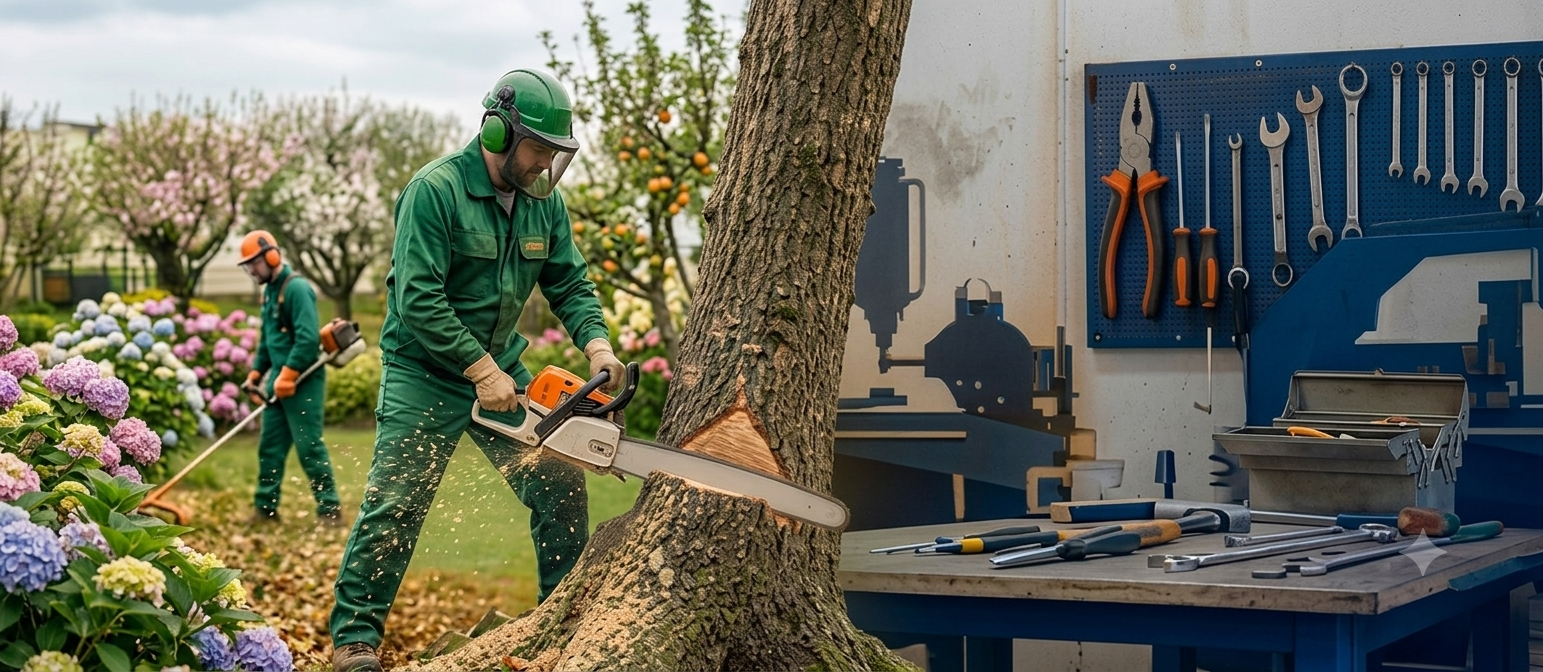
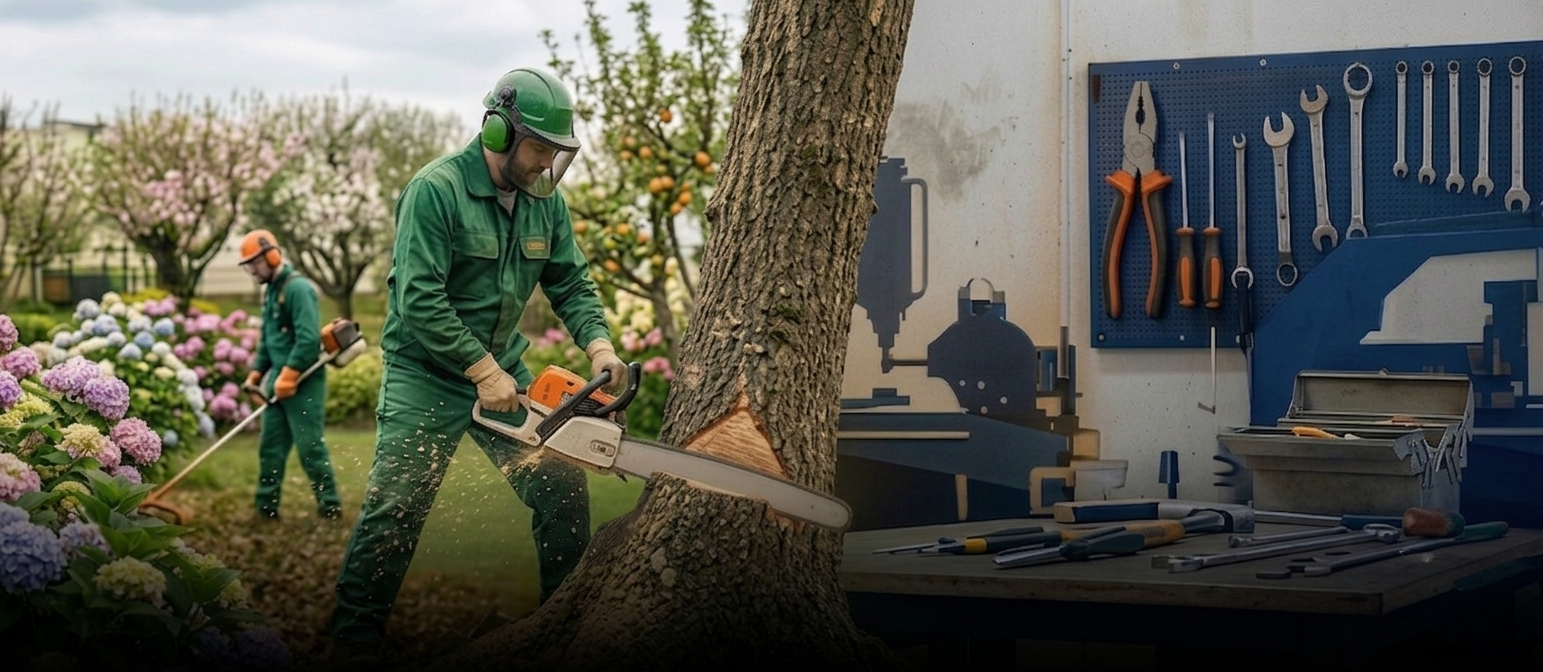
d

diff --git a/FrontEnd/app/components/avaliacao.tsx b/FrontEnd/app/components/avaliacao.tsx
@@ -1,13 +1,13 @@
 export default function Testimonials() {
   return (
-    <section id="sobre-nos" className="py-16 scroll-mt-24 bg-white"> 
+    <section id="sobre-nos" className="py-16 scroll-mt-24 bg-black"> 
   <div>
-    <div className="py-20 lg:py-24 bg-white text-[#2f2f2f]">
+    <div className="py-20 lg:py-24 bg-black text-white">
       <div className="container mx-auto px-4">
         <div className="grid grid-cols-1 lg:grid-cols-2 gap-16 items-center">
           <div>
-            <h2 className="text-3xl font-bold mb-4 text-[#2f2f2f]">Por que nos escolher</h2>
-            <p className="text-gray-500 mb-10">
+            <h2 className="text-3xl font-bold mb-4 text-white">Por que nos escolher</h2>
+            <p className="text-white/85 mb-10">
               Há 15 anos, combinamos qualidade e experiência no comércio e manutenção de máquinas para jardinagem e construção civil. Oferecemos tudo o que o seu projeto precisa, com o suporte de uma manutenção especializada de total confiança. Escolha a eficiência e a parceria que o seu trabalho merece!
             </p>
             
@@ -17,8 +17,8 @@ export default function Testimonials() {
                   <span className="absolute inset-0 bg-[#3b5d50] rounded-full opacity-20 transform -translate-x-2 translate-y-2 w-8 h-8 z-[-1]"></span>
                   <img src="/images/truck.svg" alt="Fast Shipping" className="h-8 relative z-10" />
                 </div>
-                <h3 className="text-sm font-bold mb-2 text-[#2f2f2f]">Envio &amp;  rápido</h3>
-                <p className="text-gray-500 text-sm">
+                <h3 className="text-sm font-bold mb-2 text-white">Envio &amp;  rápido</h3>
+                <p className="text-white/85 text-sm">
                   Entregamos suas máquinas e peças com total agilidade e segurança para que o seu trabalho nunca pare.
                 </p>
               </div>
@@ -27,8 +27,8 @@ export default function Testimonials() {
                   <span className="absolute inset-0 bg-[#3b5d50] rounded-full opacity-20 transform -translate-x-2 translate-y-2 w-8 h-8 z-[-1]"></span>
                   <img src="/images/bag.svg" alt="Easy Shop" className="h-8 relative z-10" />
                 </div>
-                <h3 className="text-sm font-bold mb-2 text-[#2f2f2f]">Loja Confiavel</h3>
-                <p className="text-gray-500 text-sm">
+                <h3 className="text-sm font-bold mb-2 text-white">Loja Confiavel</h3>
+                <p className="text-white/85 text-sm">
                   Nossa loja e site contam com sistemas seguros, para proteger seus dados e sendo transparente e com a credibilidade de quem é especialista no mercado.
                 </p>
               </div>
@@ -37,8 +37,8 @@ export default function Testimonials() {
                   <span className="absolute inset-0 bg-[#3b5d50] rounded-full opacity-20 transform -translate-x-2 translate-y-2 w-8 h-8 z-[-1]"></span>
                   <img src="/images/support.svg" alt="Support" className="h-8 relative z-10" />
                 </div>
-                <h3 className="text-sm font-bold mb-2 text-[#2f2f2f]">Suporte 24 horas por dia, 7 dias por semana</h3>
-                <p className="text-gray-500 text-sm">
+                <h3 className="text-sm font-bold mb-2 text-white">Suporte 24 horas por dia, 7 dias por semana</h3>
+                <p className="text-white/85 text-sm">
                   Suporte técnico especializado disponível 24h por dia, 7 dias por semana. Estamos sempre prontos para resolver qualquer imprevisto que ocorrer.
                 </p>
               </div>
@@ -47,15 +47,15 @@ export default function Testimonials() {
                   <span className="absolute inset-0 bg-[#3b5d50] rounded-full opacity-20 transform -translate-x-2 translate-y-2 w-8 h-8 z-[-1]"></span>
                   <img src="/images/return.svg" alt="Returns" className="h-8 relative z-10" />
                 </div>
-                <h3 className="text-sm font-bold mb-2 text-[#2f2f2f]">Devoluções sem complicações</h3>
-                <p className="text-gray-500 text-sm">
+                <h3 className="text-sm font-bold mb-2 text-white">Devoluções sem complicações</h3>
+                <p className="text-white/85  text-sm">
                   Processo simples e sem burocracia para você trocar ou devolver qualquer produto, com estorno garantido e agilidade no atendimento.
                 </p>
               </div>
             </div>
           </div>
           <div className="relative">
-            <div className="absolute top-[-10%] left-[-10%] bg-[#ff7b00] w-3/4 h-3/4 rounded-3xl z-0 transform -rotate-6"></div>
+            <div className="absolute top-[-10%] left-[-10%] bg-[#ff7b00] w-3/4 h-3/4 rounded-3xl z-0 transform -rotate-6 "></div>
             <img src="/images/why-choose-us-img.jpg" alt="Why Choose Us" className="rounded-3xl relative z-10 w-150 object-cover" />
           </div>
         </div>

diff --git a/FrontEnd/app/components/footer.tsx b/FrontEnd/app/components/footer.tsx
@@ -33,8 +33,8 @@ export default function Footer() {
             <p className="text-gray-500 text-sm leading-relaxed mb-6">Atuamos no comércio e manutenção de máquinas para jardinagem e construção civil, com assistência técnica especializada e mais de 15 anos de experiência. Oferecemos qualidade, eficiência e confiança em cada serviço, porque mais do que máquinas, entregamos resultados que fazem a diferença.</p>
 
             <ul className="flex space-x-4 text-[#2f2f2f]">
-              <li><a href="https://www.instagram.com/smbmaquinas/" className="w-10 h-10 bg-[#eff2f1] rounded-full flex items-center justify-center hover:bg-[#ea580c] hover:text-white transition"><img src="/images/machado.png" alt="Cart" /></a></li>
-              <li><a  href="https://mail.google.com/mail/?view=cm&fs=1&to=corporativo@smbmaquinas.com.br" className="w-10 h-10 bg-[#eff2f1] rounded-full flex items-center justify-center hover:bg-[#ea580c] hover:text-white transition"><img src="/images/aparador2.png" alt="Cart" /></a></li>
+              <li><a href="https://www.instagram.com/smbmaquinas/" className="w-10 h-10 bg-[#eff2f1] rounded-full flex items-center justify-center hover:bg-[#ea580c] hover:text-white transition"><img src="/images/instagram-svgrepo-com.svg" alt="Cart" /></a></li>
+              <li><a  href="https://mail.google.com/mail/?view=cm&fs=1&to=corporativo@smbmaquinas.com.br" className="w-10 h-10 bg-[#eff2f1] rounded-full flex items-center justify-center hover:bg-[#ea580c] hover:text-white transition"><img src="/images/email-1-svgrepo-com.svg" alt="Cart" /></a></li>
             </ul>
           </div>
 

diff --git a/FrontEnd/app/components/products.tsx b/FrontEnd/app/components/products.tsx
@@ -42,7 +42,7 @@ export default function Products() {
   }
 
   return (
-    <section id="loja" className="py-16 scroll-mt-24">
+    <section id="loja" className="py-16 scroll-mt-24 bg-black">
       <div className="w-full px-4 md:px-8">
         {/* Busca + Filtros */}
         <div className="flex items-center gap-3 mb-8 overflow-x-auto pb-2 scrollbar-hide">
